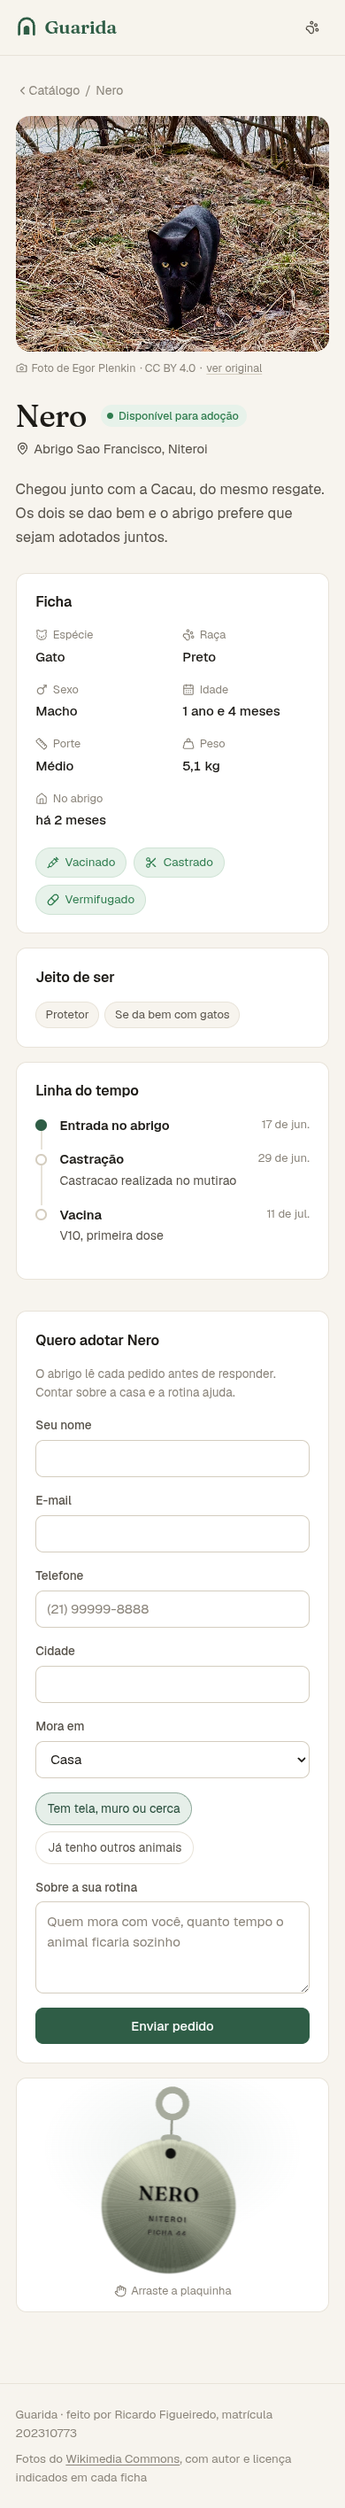
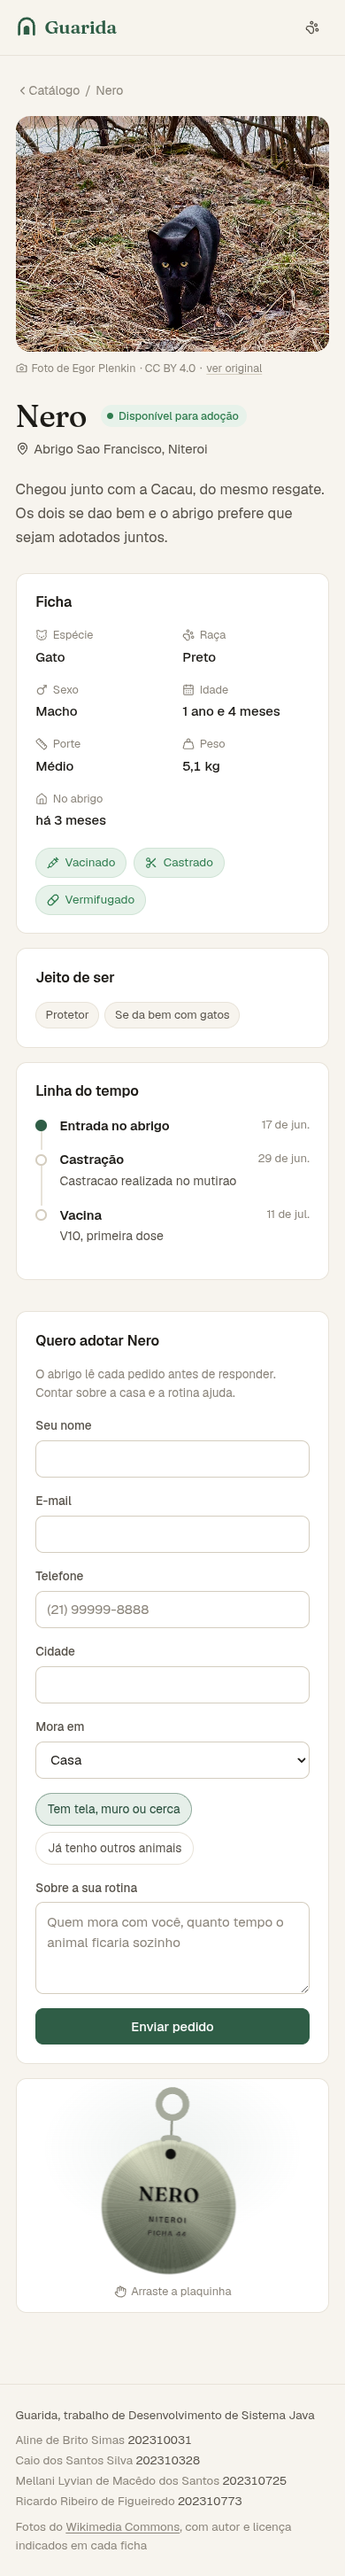
Assina o trabalho com os quatro integrantes do grupo
Nome e matricula de cada um no rodape das telas e no README.

diff --git a/web/components/Rodape.tsx b/web/components/Rodape.tsx
@@ -1,8 +1,24 @@
+const INTEGRANTES = [
+  { nome: "Aline de Brito Simas", matricula: "202310031" },
+  { nome: "Caio dos Santos Silva", matricula: "202310328" },
+  { nome: "Mellani Lyvian de Macêdo dos Santos", matricula: "202310725" },
+  { nome: "Ricardo Ribeiro de Figueiredo", matricula: "202310773" }
+];
+
 export default function Rodape() {
   return (
     <footer className="rodape">
       <div className="rodape-miolo">
-        <span>Guarida · feito por Ricardo Figueiredo, matrícula 202310773</span>
+        <div>
+          <span>Guarida, trabalho de Desenvolvimento de Sistema Java</span>
+          <ul className="integrantes">
+            {INTEGRANTES.map((pessoa) => (
+              <li key={pessoa.matricula}>
+                {pessoa.nome} <span className="numero">{pessoa.matricula}</span>
+              </li>
+            ))}
+          </ul>
+        </div>
         <span>
           Fotos do <a href="https://commons.wikimedia.org" target="_blank" rel="noreferrer">Wikimedia Commons</a>,
           com autor e licença indicados em cada ficha

diff --git a/web/testes/componentes/basicos.test.tsx b/web/testes/componentes/basicos.test.tsx
@@ -29,9 +29,11 @@ describe("marca, topo e rodapé", () => {
     expect(screen.getByRole("link", { name: "Acervo" })).toBeInTheDocument();
   });
 
-  it("o rodapé assina o trabalho e credita o Commons", () => {
+  it("o rodapé assina o trabalho com o grupo inteiro e credita o Commons", () => {
     render(<Rodape />);
-    expect(screen.getByText(/Ricardo Figueiredo, matrícula 202310773/)).toBeInTheDocument();
+    expect(screen.getAllByRole("listitem")).toHaveLength(4);
+    expect(screen.getByText(/Mellani Lyvian de Macêdo dos Santos/)).toBeInTheDocument();
+    expect(screen.getByText("202310773")).toBeInTheDocument();
     expect(screen.getByRole("link", { name: "Wikimedia Commons" })).toHaveAttribute("rel", "noreferrer");
   });
 });

diff --git a/web/app/globals.css b/web/app/globals.css
@@ -1585,6 +1585,23 @@ svg.lucide {
   padding: 1.5rem clamp(1.1rem, 4vw, 2rem);
 }
 
+.integrantes {
+  display: flex;
+  flex-wrap: wrap;
+  gap: 0.15rem 1.1rem;
+  list-style: none;
+  margin: 0.4rem 0 0;
+  padding: 0;
+}
+
+.integrantes .numero {
+  color: var(--tinta-3);
+}
+
+.rodape-miolo > div span:first-child {
+  color: var(--tinta-2);
+}
+
 .rodape a {
   text-decoration: underline;
   text-underline-offset: 2px;

diff --git a/README.md b/README.md
@@ -5,9 +5,14 @@ catálogo aberto, onde qualquer pessoa consulta os animais e manda um pedido de
 adoção sem criar conta, e um painel do abrigo, onde só quem cuida cadastra,
 altera e exclui.
 
-**Autor:** Ricardo Figueiredo
-**Matrícula:** 202310773
 **Avaliação:** Prova prática de Desenvolvimento de Sistema Java
+
+| Integrante | Matrícula |
+|---|---|
+| Aline de Brito Simas | 202310031 |
+| Caio dos Santos Silva | 202310328 |
+| Mellani Lyvian de Macêdo dos Santos | 202310725 |
+| Ricardo Ribeiro de Figueiredo | 202310773 |
 
 ## As cinco operações do enunciado
 
